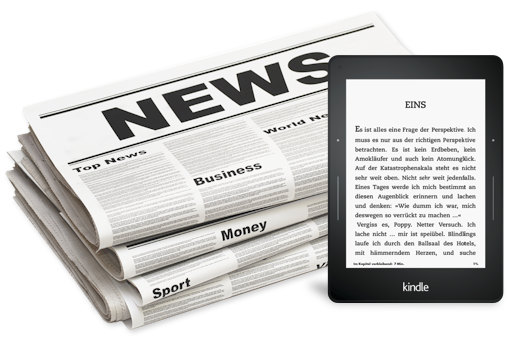
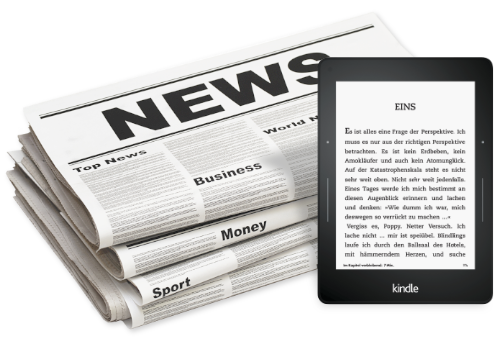
minor styling corrections

diff --git a/src/scenes/Auth/Signup/styles.scss b/src/scenes/Auth/Signup/styles.scss
@@ -1,11 +1,10 @@
-@import "../../../assets/styles/variables";
-@import "../../../../node_modules/bootstrap/scss/functions";
-@import "../../../../node_modules/bootstrap/scss/variables";
+@import "~bootstrap/scss/functions";
+@import "~bootstrap/scss/variables";
+@import "./../../../assets/styles/variables";
 
 .BodySignup {
-  background: #EFEFEF url(./../../../assets/images/placeholder.png) no-repeat bottom right;
+  background: $gray-200 url(./../../../assets/images/newspaper.png) no-repeat bottom right;
 }
-
 
 .Signup {
   height: 99vh;

diff --git a/src/scenes/Feeds/components/FeedList.js b/src/scenes/Feeds/components/FeedList.js
@@ -37,9 +37,7 @@ class FeedList extends Component {
     if (!feeds.length > 0 || !categories.length > 0 || (order === 'category') && !category) {
       return (
         <main>
-          <PageCaption>
-          Browse Feeds
-          </PageCaption>
+          <PageCaption>Browse Feeds</PageCaption>
           <div className="container">
             <h2>Loading...</h2>
           </div>

diff --git a/src/assets/styles/_variables.scss b/src/assets/styles/_variables.scss
@@ -2,7 +2,7 @@
 //#ee413f;
 $white:                             #fff;
 $gray-100:                          #f8f9fa;
-$gray-200:                          #e9ecef;
+$gray-200:                          #f6f5f4;
 $gray-300:                          #dee2e6;
 $gray-400:                          #ced4da;
 $gray-500:                          #adb5bd;

diff --git a/src/assets/styles/main.scss b/src/assets/styles/main.scss
@@ -5,6 +5,10 @@
 
 // Globals
 // -------------------------------------------------------------------
+html {
+  min-height: 100%;
+}
+
 main {
   display: block;
   min-height: 35rem;
